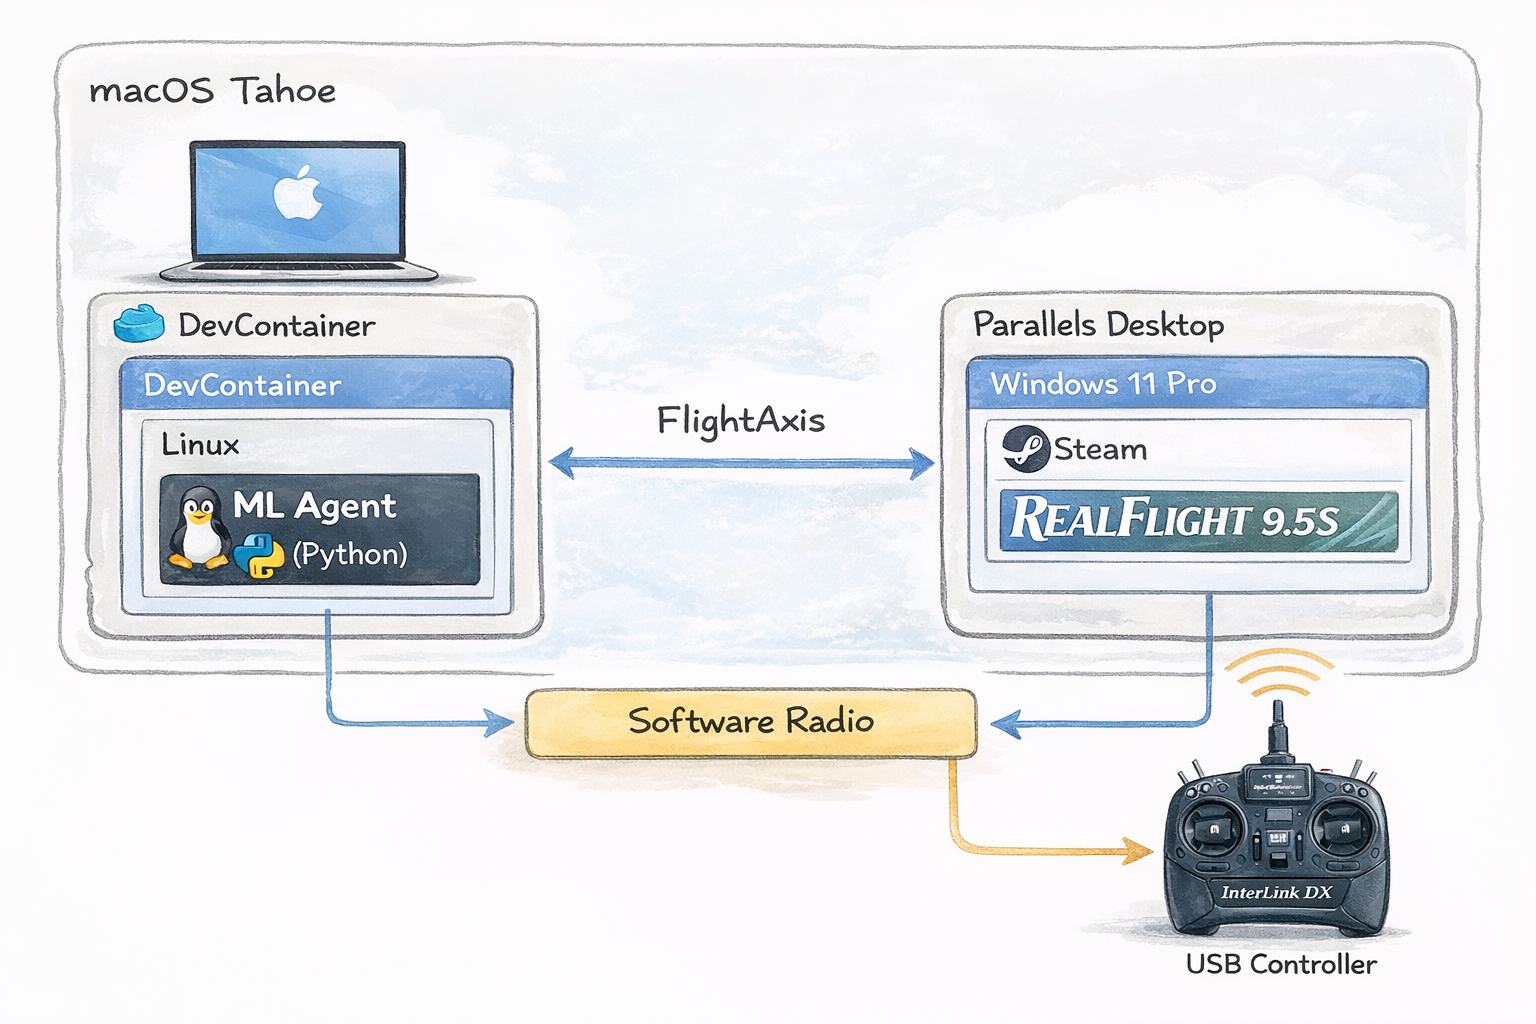
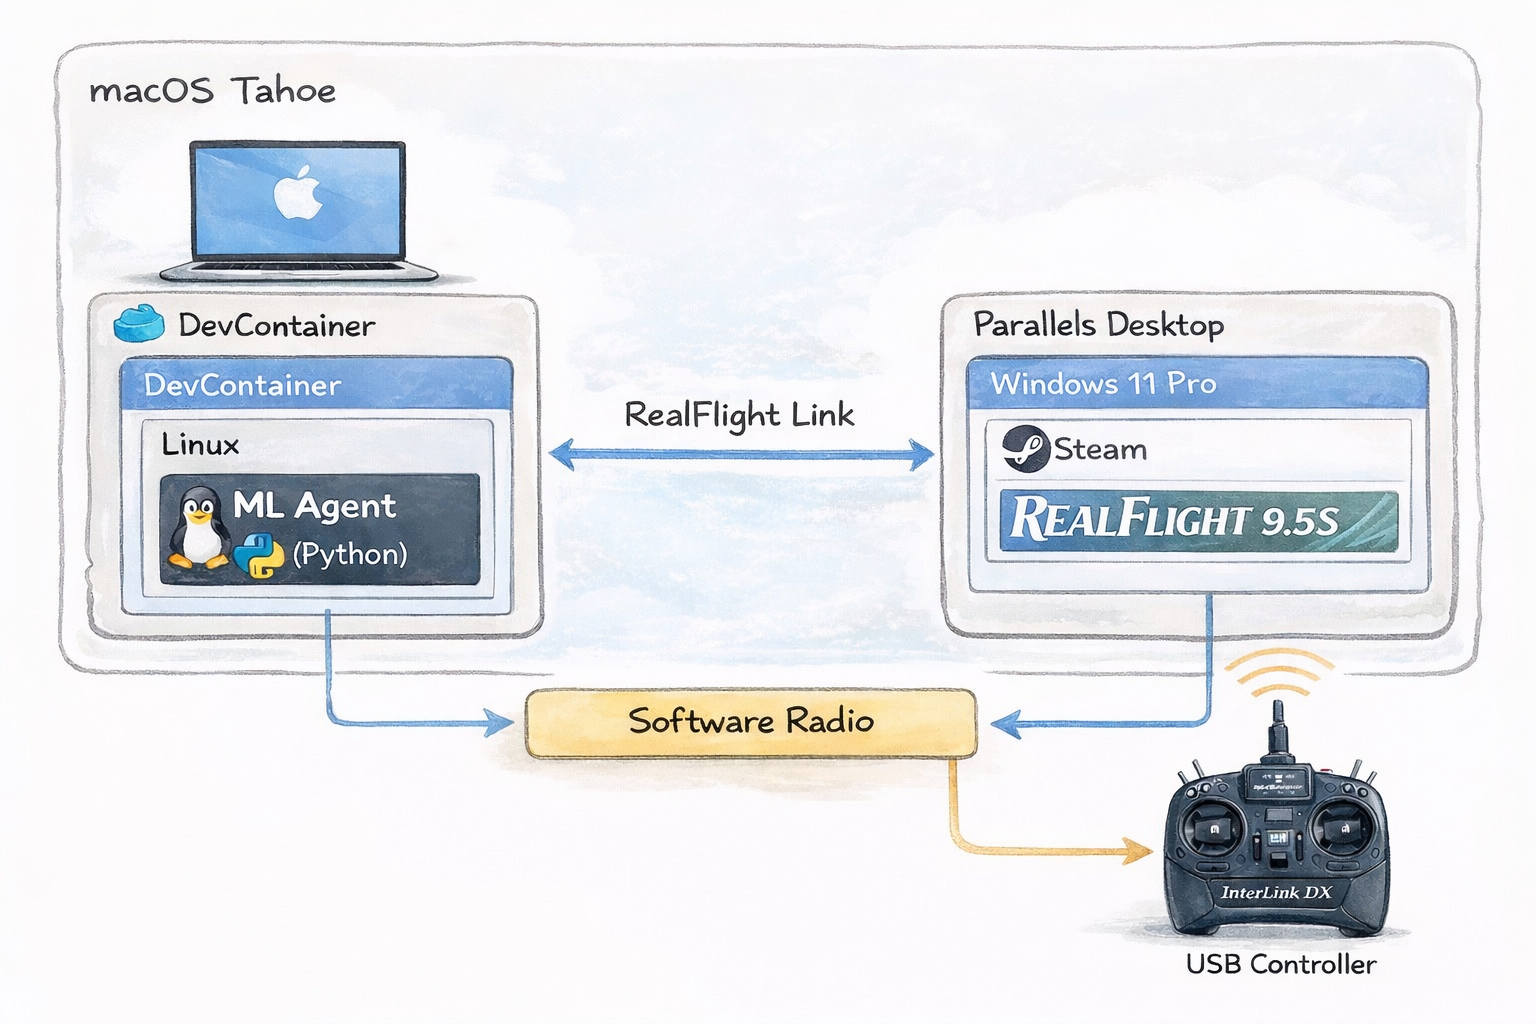
refactor: replace FlightAxis with RealFlight Link terminology
- Update references from FlightAxis to RealFlight Link in post content
- Align terminology with current RealFlight API naming
- Update system diagram to reflect RealFlight Link usage

diff --git a/_posts/2026-04-12-hoverpilot-rc-airplane-hover-rl.md b/_posts/2026-04-12-hoverpilot-rc-airplane-hover-rl.md
@@ -40,7 +40,7 @@ RC 비행에서 **hover**는 단순한 기술이 아니다.  기체를 수직으
 
 전체 시스템은 Gymnasium 환경으로 래핑한다.
 
-- 상태는 FlightAxis를 통해 읽고
+- 상태는 RealFlight Link를 통해 읽고
 - action은 Software Radio를 통해 전달한다
 - reward는 hover 유지와 안정성을 기준으로 설계한다
 
@@ -59,7 +59,7 @@ RC 비행에서 **hover**는 단순한 기술이 아니다.  기체를 수직으
 
 TODO 리스트는 다음과 같다.
 
-- FlightAxis 인터페이스 구현
+- RealFlight Link 인터페이스 구현
 - Software Radio 구현
 - Gymnasium 환경 완성
 - baseline 정책 학습 (PPO 또는 SAC)
